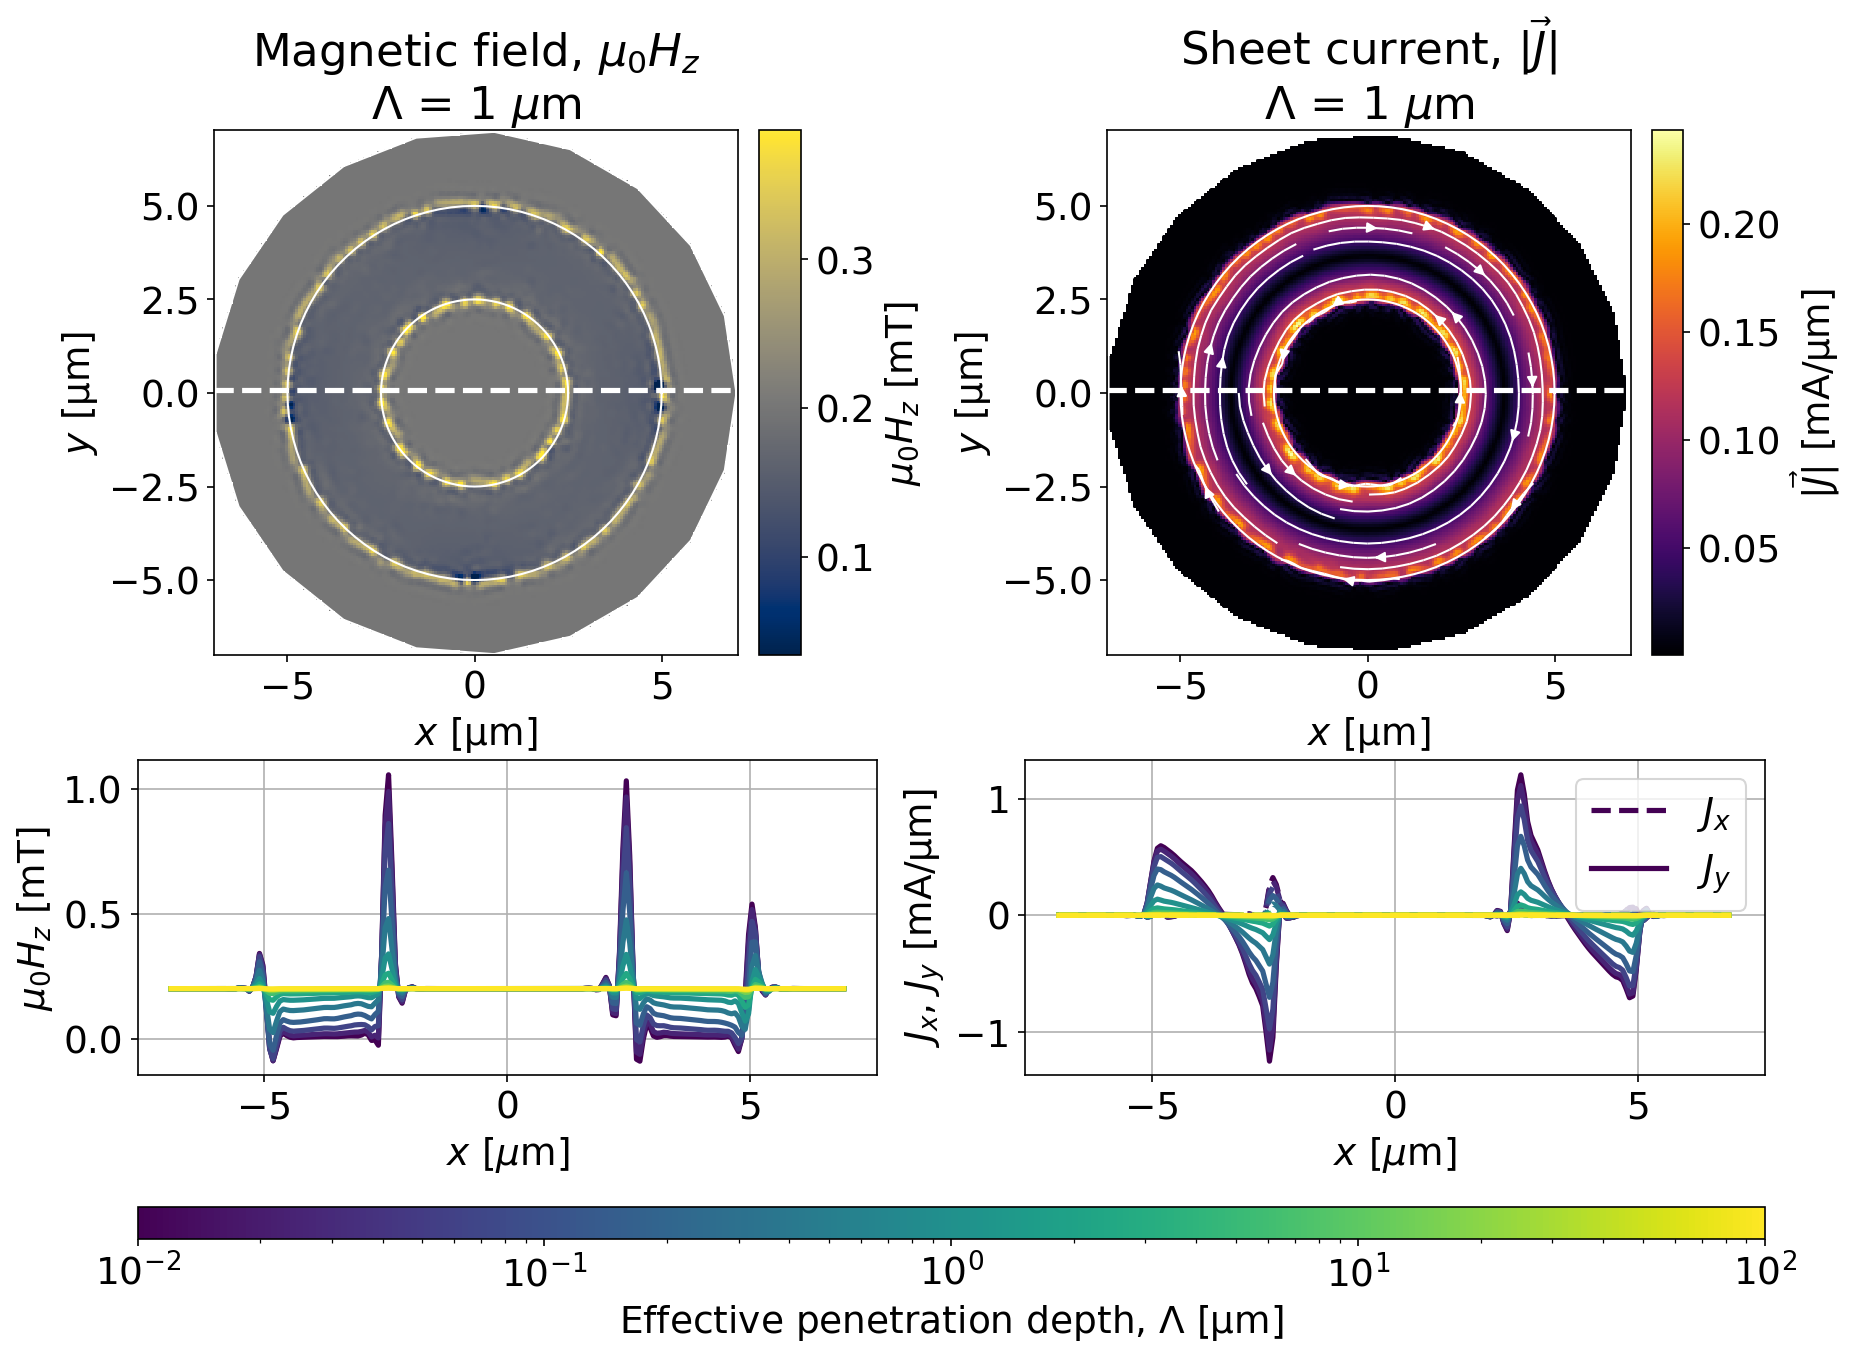
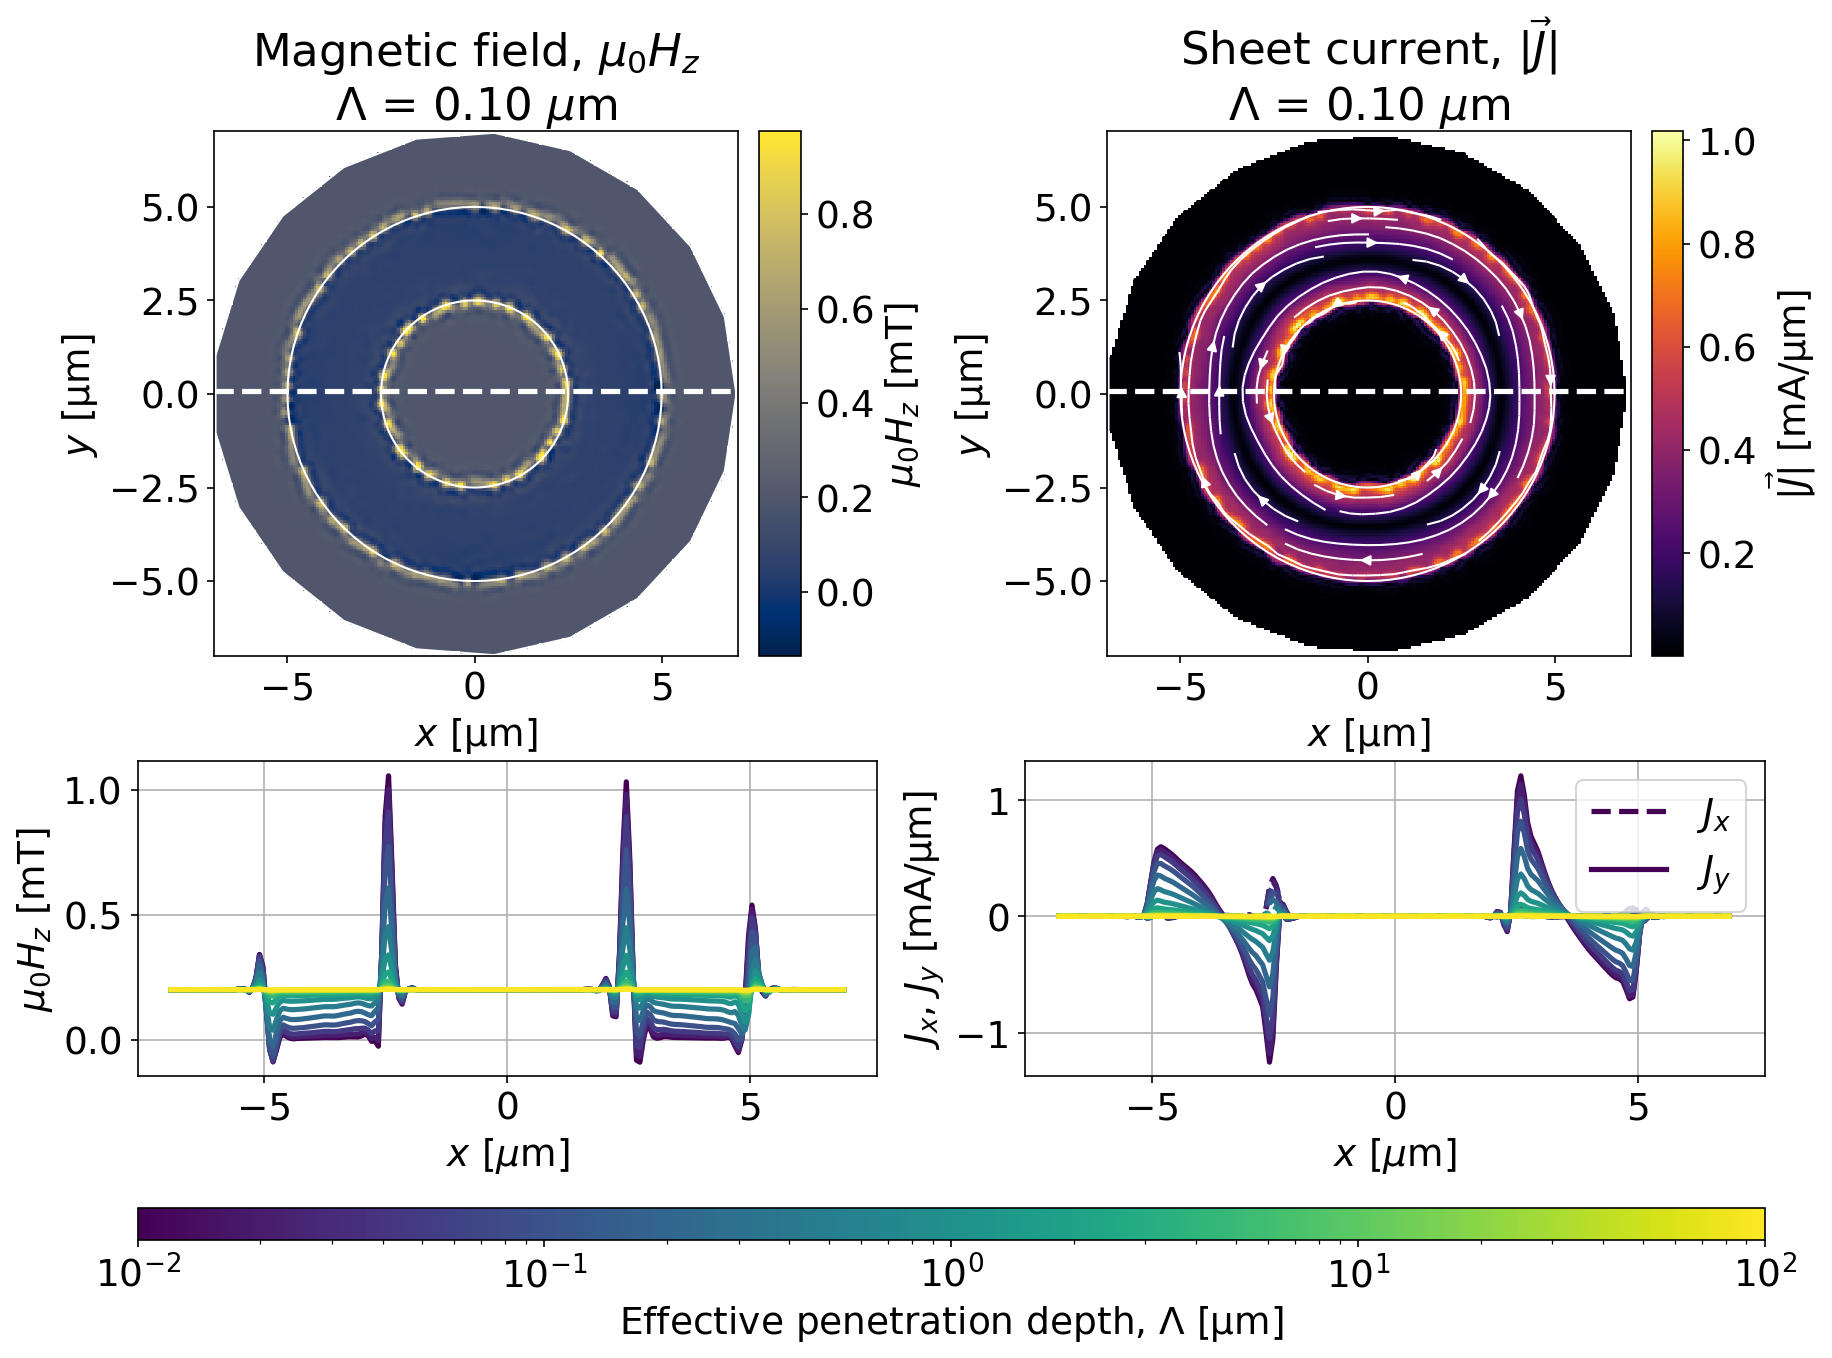
update examples

diff --git a/examples/scripts/ring.py b/examples/scripts/ring.py
@@ -99,6 +99,8 @@ if __name__ == "__main__":
     Lambda = 1
     length_units = "um"
     field_units = "mT"
+    # Plot the fields and currents for this value of Lambda
+    show_Lambda = 0.1
 
     # The method used for parallel execution.
     # Valid options are None (i.e. serial execution), "ray", and "multiprocessing".
@@ -167,7 +169,8 @@ if __name__ == "__main__":
 
         # Simulate the field and current distributions for a given total
         # circulating current across a wide range of Lambdas.
-        Lambdas = np.logspace(-2, 2, 11)
+        Lambdas = np.logspace(-2, 2, 13)
+        assert np.any(Lambdas == show_Lambda), "show_Lambda not in Lambdas"
 
         layer_update_kwargs = [dict(Lambda=Lambda) for Lambda in Lambdas]
 
@@ -194,7 +197,7 @@ if __name__ == "__main__":
         #         )[-1]
         #     )
 
-        fig, axes = plot_solutions(solutions, Lambdas)
+        fig, axes = plot_solutions(solutions, Lambdas, show_Lambda=show_Lambda)
         fig.savefig(
             os.path.join(imagedir, f"{ring.name}_circulating_current.png"),
             bbox_inches="tight",
@@ -230,16 +233,26 @@ if __name__ == "__main__":
         #         )[-1]
         #     )
 
-        fig, axes = plot_solutions(solutions, Lambdas)
+        fig, axes = plot_solutions(solutions, Lambdas, show_Lambda=show_Lambda)
         fig.savefig(
             os.path.join(imagedir, f"{ring.name}_uniform_field.png"),
             bbox_inches="tight",
         )
 
         # Simulate the field and current distribution for a nonuniform applied field,
-        # namely the field from an isolated vortex pinned below the plane of the ring.
-        vortex_position = (-3.75, 0, -0.5)  # x, y, z
-        applied_field = sc.Parameter(vortex_field, vortex_position=(-3.75, 0, -0.5))
+        # namely the field from several isolated vortcies pinned below
+        # the plane of the ring.
+        vortex_positions = [
+            # (x, y, z),
+            (-3.75, 0, -0.5),
+            (2.5, -2.5, -0.5),
+            (0, 5, -0.5),
+        ]
+        # Define the applied field as a sum of Parameters
+        applied_field = sum(
+            sc.Parameter(vortex_field, vortex_position=position)
+            for position in vortex_positions
+        )
 
         solutions, _ = sc.solve_many(
             device=ring,
@@ -265,7 +278,7 @@ if __name__ == "__main__":
         #         )[-1]
         #     )
 
-        fig, axes = plot_solutions(solutions, Lambdas)
+        fig, axes = plot_solutions(solutions, Lambdas, show_Lambda=show_Lambda)
         fig.savefig(
             os.path.join(imagedir, f"{ring.name}_nonuniform_field.png"),
             bbox_inches="tight",

diff --git a/examples/scripts/plot_solutions.py b/examples/scripts/plot_solutions.py
@@ -49,7 +49,9 @@ def plot_solutions(
             )
             ax.set_xlabel("$x$ [$\\mu$m]")
             ax.set_ylabel("$y$ [$\\mu$m]")
-            ax.set_title("Magnetic field, $\\mu_0H_z$\n$\\Lambda$ = 1 $\\mu$m")
+            ax.set_title(
+                f"Magnetic field, $\\mu_0H_z$\n$\\Lambda$ = {show_Lambda:.2f} $\\mu$m"
+            )
             ax_divider = make_axes_locatable(ax)
             cax = ax_divider.append_axes("right", size="8%", pad="4%")
             cbar = fig.colorbar(im, cax=cax)
@@ -82,7 +84,10 @@ def plot_solutions(
             im = bx.pcolormesh(xvec, yvec, J, shading="auto", cmap="inferno")
             bx.set_xlabel("$x$ [$\\mu$m]")
             bx.set_ylabel("$y$ [$\\mu$m]")
-            bx.set_title("Sheet current, $|\\vec{J}|$\n$\\Lambda$ = 1 $\\mu$m")
+            bx.set_title(
+                "Sheet current, $|\\vec{J}|$"
+                + f"\n$\\Lambda$ = {show_Lambda:.2f} $\\mu$m"
+            )
             ax_divider = make_axes_locatable(bx)
             cax = ax_divider.append_axes("right", size="6%", pad="4%")
             cbar = fig.colorbar(im, cax=cax)

diff --git a/examples/scripts/disk.py b/examples/scripts/disk.py
@@ -1,5 +1,6 @@
 import os
 import logging
+from matplotlib.pyplot import show
 
 import numpy as np
 
@@ -50,6 +51,8 @@ if __name__ == "__main__":
 
     disk_radius = 5
     length_units = "um"
+    # Plot the fields and currents for this value of Lambda
+    show_Lambda = 1.0
 
     # Make the disk Device
     disk = make_disk(radius=disk_radius, length_units=length_units)
@@ -87,7 +90,7 @@ if __name__ == "__main__":
             )[-1]
         )
 
-    fig, axes = plot_solutions(solutions, Lambdas)
+    fig, axes = plot_solutions(solutions, Lambdas, show_Lambda=show_Lambda)
     fig.savefig(
         os.path.join(imagedir, f"{disk.name}_uniform_field.png"),
         bbox_inches="tight",
